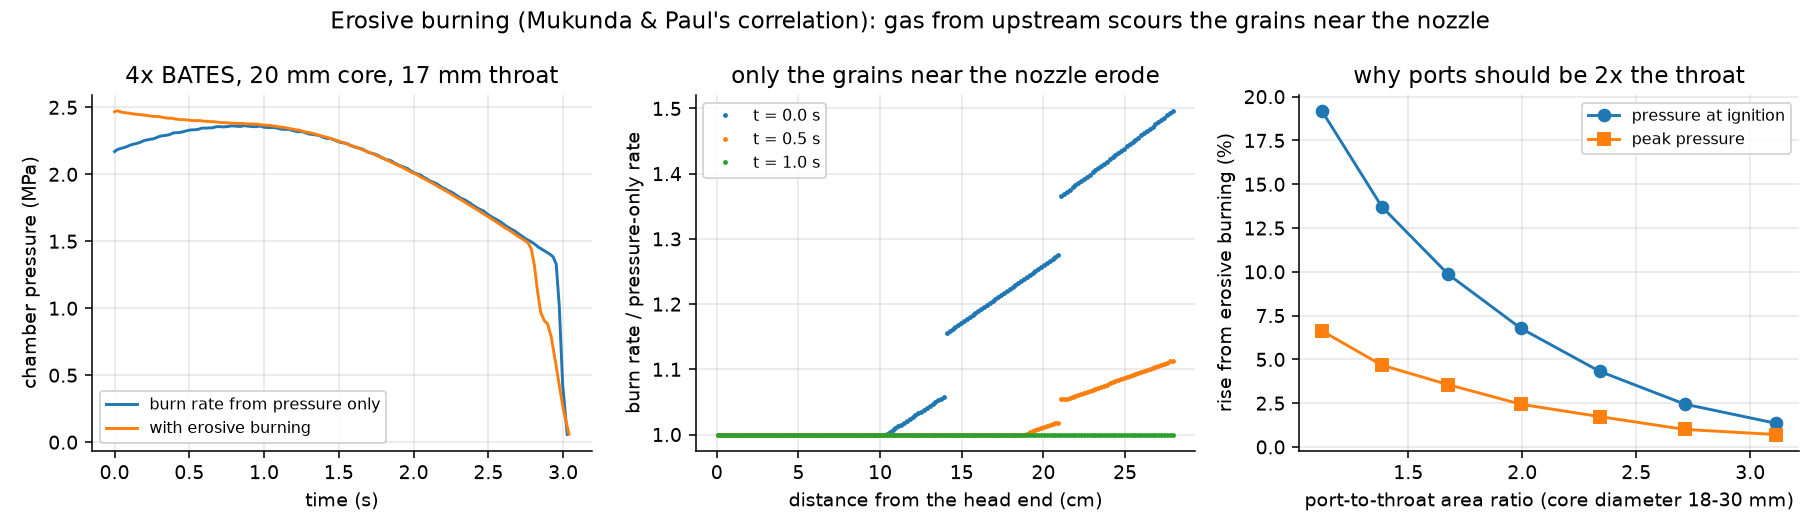
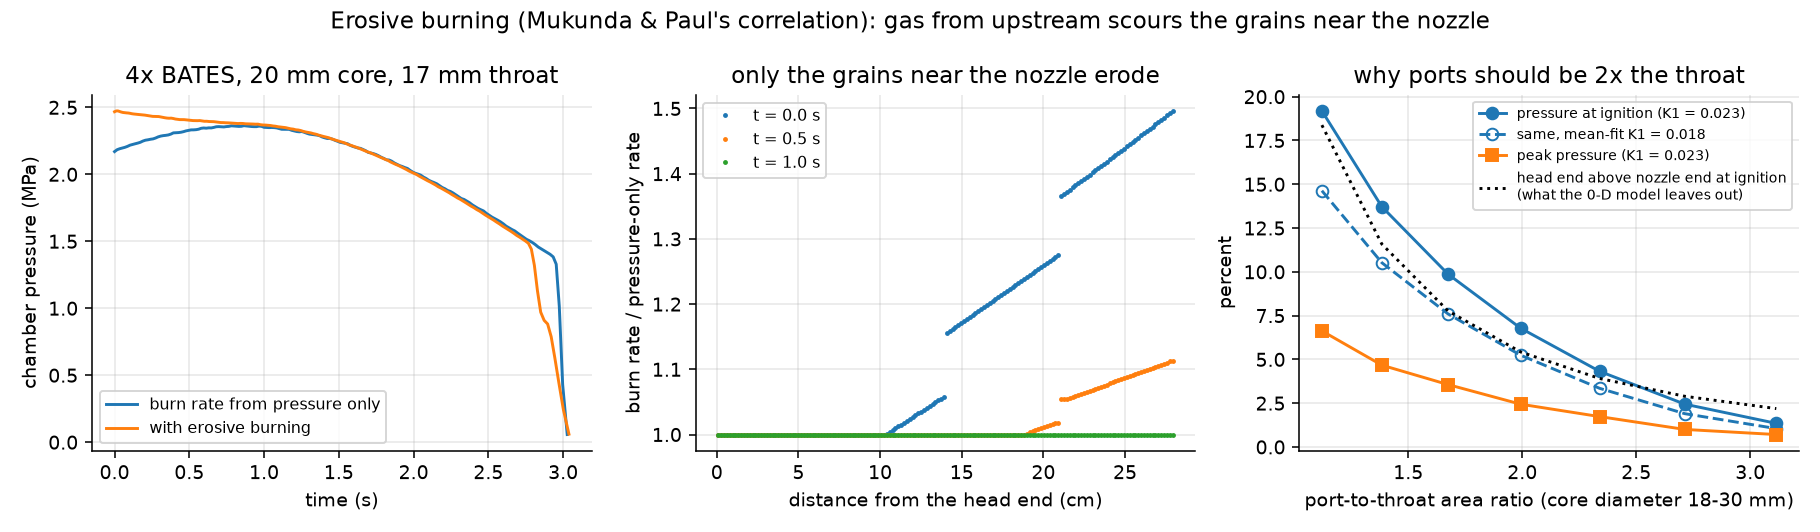
Report the port Mach number and the erosive-burning uncertainty
The 1.4 port-to-throat BATES case runs at about Mach 0.49 in the port, so the
uniform-pressure model is outside its range there: the head end sits about 12%
above the nozzle pressure. The result now reports the port Mach number and the
head-end pressure that implies. The README also stops calling 0.023 a fit to
450 points (the mean fit is 0.018; 0.023 is the authors' upper-side value) and
gives the start-pressure rise as a range over the coefficient and viscosity.

diff --git a/src/hml/solid.py b/src/hml/solid.py
@@ -14,14 +14,22 @@ adds erosive burning: gas flowing fast along the port scours the burning
 surface and makes it burn faster, most at the nozzle end where all the gas from
 upstream is flowing past. It uses Mukunda & Paul's correlation ("Universal
 behaviour in erosive burning of solid propellants", Combustion and Flame 109,
-1997, Eq. 12), which they fit to about 450 data points across composite and
-double-base propellants:
+1997, Eq. 12):
 
-    r / r0 = 1 + 0.023 (g^0.8 - g_th^0.8)   for g > g_th = 35, else 1
+    r / r0 = 1 + K1 (g^0.8 - g_th^0.8)   for g > g_th = 35, else 1
     g  = g0 (Re0 / 1000)^-0.125,   g0 = G / (rho_p r0),   Re0 = rho_p r0 d / mu
 
 where r0 = a Pc^n is the non-erosive rate, G the mass flux in the port, d the
-port's hydraulic diameter and mu the gas viscosity.
+port's hydraulic diameter and mu the gas viscosity. The mean line through their
+roughly 450 data points has K1 = 0.018 (their Sec. 3.8). They raised it to 0.023
+so a 1-D port-flow model matched Nagaoka et al.'s measured head-end pressure
+traces, said that value lies toward the upper bound of the data, and recommend
+it as Eq. 12 (Sec. 3.9). The default here is 0.023; pass 0.018 to see the spread.
+
+The 0-D model takes one pressure for the whole chamber. With a narrow port the
+gas reaches a real Mach number on its way to the nozzle and the static pressure
+falls along the port, which the result reports (``port_mach``, ``head_end_pc``)
+rather than models.
 """
 from __future__ import annotations
 
@@ -106,13 +114,43 @@ def simulate(segments: list[Segment], prop: SolidPropellant, throat_diameter: fl
 
 # ---------------------------------------------------------------- erosive burning
 
-def erosive_ratio(G, r0: float, prop: SolidPropellant, hydraulic_diameter):
-    """Erosive burn-rate ratio r / r0 from Mukunda & Paul (1997), Eq. 12."""
+MUKUNDA_PAUL_K1 = 0.023  # Eq. 12, raised to match motor pressure traces ("toward the upper bound")
+MUKUNDA_PAUL_K1_MEAN_FIT = 0.018  # mean line through all their data (Sec. 3.8)
+
+
+def erosive_ratio(G, r0: float, prop: SolidPropellant, hydraulic_diameter, coefficient: float = MUKUNDA_PAUL_K1):
+    """Erosive burn-rate ratio r / r0 from Mukunda & Paul (1997), Eq. 12, with K1 = ``coefficient``."""
     G, d = np.asarray(G, float), np.asarray(hydraulic_diameter, float)
     g0 = G / (prop.density * r0)
     re0 = prop.density * r0 * d / prop.viscosity
     g = g0 * (re0 / 1000.0) ** -0.125
-    return np.where(g > 35.0, 1.0 + 0.023 * (np.maximum(g, 35.0) ** 0.8 - 35.0**0.8), 1.0)
+    return np.where(g > 35.0, 1.0 + coefficient * (np.maximum(g, 35.0) ** 0.8 - 35.0**0.8), 1.0)
+
+
+def subsonic_mach_from_flux_ratio(flux_ratio, gamma: float):
+    """Mach number of a section that passes ``flux_ratio`` times the throat's mass flux at the same stagnation state.
+
+    That ratio is A*/A in isentropic flow, so this inverts the area-Mach relation on its subsonic branch.
+    """
+    from scipy.optimize import brentq
+
+    def area_ratio(M):
+        return ((2 / (gamma + 1)) * (1 + (gamma - 1) / 2 * M**2)) ** ((gamma + 1) / (2 * (gamma - 1))) / M
+
+    out = [brentq(lambda M, f=f: 1.0 / area_ratio(M) - f, 1e-9, 1.0) if 0 < f < 1 else (1.0 if f >= 1 else 0.0)
+           for f in np.atleast_1d(np.asarray(flux_ratio, float))]
+    return np.array(out) if np.ndim(flux_ratio) else out[0]
+
+
+def head_end_pressure_ratio(port_mach, gamma: float):
+    """Head-end pressure over the nozzle-end stagnation pressure, for a constant-area port.
+
+    Gas leaves the burning wall with no axial momentum, so with no friction p + rho u^2 = p (1 + gamma M^2)
+    is the same all along the port. The head end is at rest (M = 0), and at the aft end the static pressure
+    is the stagnation pressure times the isentropic ratio.
+    """
+    M = np.asarray(port_mach, float)
+    return (1 + gamma * M**2) * (1 + (gamma - 1) / 2 * M**2) ** (-gamma / (gamma - 1))
 
 
 @dataclass
@@ -124,11 +162,16 @@ class ErosiveResult(SolidResult):
     # Peak port mass flux over the throat's, Pc / c*. Above 1 the port itself would
     # choke, the pressure along the port is far from uniform, and the model doesn't apply.
     port_choke_ratio: np.ndarray = field(default_factory=lambda: np.zeros(0))
+    # What that flux means for the uniform-pressure assumption: the Mach number where the port flux peaks,
+    # and the head-end pressure that implies for a constant-area port (pc is the nozzle-end stagnation
+    # pressure). Above a flux ratio of about 0.5 the two ends differ by more than 5%.
+    port_mach: np.ndarray = field(default_factory=lambda: np.zeros(0))
+    head_end_pc: np.ndarray = field(default_factory=lambda: np.zeros(0))
 
 
 def simulate_erosive(segments: list[Segment], prop: SolidPropellant, throat_diameter: float, area_ratio: float,
                      p_ambient: float = 101325.0, dx: float = 1e-4, cells_per_segment: int = 40,
-                     erosive: bool = True) -> ErosiveResult:
+                     erosive: bool = True, erosive_coefficient: float = MUKUNDA_PAUL_K1) -> ErosiveResult:
     """Like ``simulate``, but each segment is split into axial cells that burn back at their own rate.
 
     At each step the chamber pressure is solved so the gas made along the whole
@@ -136,6 +179,7 @@ def simulate_erosive(segments: list[Segment], prop: SolidPropellant, throat_diam
     upstream of it) equals the nozzle flow. End faces burn at the non-erosive
     rate. With ``erosive=False`` every cell burns at r0, which reproduces
     ``simulate``. Each step burns at most ``dx`` of web in the fastest cell.
+    ``erosive_coefficient`` is Mukunda & Paul's K1.
     """
     At = np.pi * throat_diameter**2 / 4
     curves = [s.port.curves(300) for s in segments]
@@ -179,7 +223,8 @@ def simulate_erosive(segments: list[Segment], prop: SolidPropellant, throat_diam
             r = np.empty(cells_per_segment)
             for j in range(cells_per_segment):
                 G = m / Ap[j]
-                eta = float(erosive_ratio(G, r0, prop, 4 * Ap[j] / max(Pp[j], 1e-12))) if erosive else 1.0
+                eta = (float(erosive_ratio(G, r0, prop, 4 * Ap[j] / max(Pp[j], 1e-12), erosive_coefficient))
+                       if erosive else 1.0)
                 r[j] = r0 * eta
                 m += prop.density * r[j] * Pp[j] * active[j]
                 if active[j] > 0 and Pp[j] > 0:
@@ -216,6 +261,9 @@ def simulate_erosive(segments: list[Segment], prop: SolidPropellant, throat_diam
         t += dt
     mass = sum(s.propellant_volume() for s in segments) * prop.density
     z = np.concatenate([zc[i] + sum(s.length for s in segments[:i]) for i in range(len(segments))])
+    choke = np.array(out["choke"])
+    mach = subsonic_mach_from_flux_ratio(choke, prop.gamma)
     return ErosiveResult(np.array(out["t"]), np.array(out["pc"]), np.array(out["F"]), np.array(out["mdot"]),
                          np.array(out["Ab"]), np.array(out["x"]), mass, z, np.array(out["xz"]),
-                         np.array(out["G"]), np.array(out["eta"]), np.array(out["choke"]))
+                         np.array(out["G"]), np.array(out["eta"]), choke, mach,
+                         np.array(out["pc"]) * head_end_pressure_ratio(mach, prop.gamma))

diff --git a/examples/make_figures.py b/examples/make_figures.py
@@ -10,6 +10,7 @@ from __future__ import annotations
 
 import argparse
 import json
+from dataclasses import replace
 from pathlib import Path
 
 import matplotlib
@@ -114,20 +115,39 @@ def erosive(results):
     axes[1].set_ylabel("burn rate / pressure-only rate")
     axes[1].set_title("only the grains near the nozzle erode")
     axes[1].legend(fontsize=8)
+    # Core size sweep, with Mukunda & Paul's recommended K1 = 0.023 and with their mean fit, 0.018.
     sweep_ero = []
     for dc in (0.018, 0.020, 0.022, 0.024, 0.026, 0.028, 0.030):
         segs = [grain.Segment(grain.tubular(0.054, dc), 0.07) for _ in range(4)]
-        a, b = solid.simulate(segs, prop, 0.017, 6.0), solid.simulate_erosive(segs, prop, 0.017, 6.0)
-        sweep_ero.append(((dc / 0.017) ** 2, 100 * (b.pc[0] / a.pc[0] - 1), 100 * (b.max_pressure / a.max_pressure - 1)))
+        a = solid.simulate(segs, prop, 0.017, 6.0)
+        b = solid.simulate_erosive(segs, prop, 0.017, 6.0)
+        c = solid.simulate_erosive(segs, prop, 0.017, 6.0, erosive_coefficient=solid.MUKUNDA_PAUL_K1_MEAN_FIT)
+        sweep_ero.append(((dc / 0.017) ** 2, 100 * (b.pc[0] / a.pc[0] - 1), 100 * (b.max_pressure / a.max_pressure - 1),
+                          100 * (c.pc[0] / a.pc[0] - 1), 100 * (b.head_end_pc[0] / b.pc[0] - 1)))
     sweep_ero = np.array(sweep_ero)
-    axes[2].plot(sweep_ero[:, 0], sweep_ero[:, 1], "o-", label="pressure at ignition")
-    axes[2].plot(sweep_ero[:, 0], sweep_ero[:, 2], "s-", label="peak pressure")
+    axes[2].plot(sweep_ero[:, 0], sweep_ero[:, 1], "o-", color="C0", label="pressure at ignition (K1 = 0.023)")
+    axes[2].plot(sweep_ero[:, 0], sweep_ero[:, 3], "o--", color="C0", mfc="none", label="same, mean-fit K1 = 0.018")
+    axes[2].plot(sweep_ero[:, 0], sweep_ero[:, 2], "s-", color="C1", label="peak pressure (K1 = 0.023)")
+    axes[2].plot(sweep_ero[:, 0], sweep_ero[:, 4], ":", color="k",
+                 label="head end above nozzle end at ignition\n(what the 0-D model leaves out)")
     axes[2].set_xlabel("port-to-throat area ratio (core diameter 18-30 mm)")
-    axes[2].set_ylabel("rise from erosive burning (%)")
+    axes[2].set_ylabel("percent")
     axes[2].set_title("why ports should be 2x the throat")
-    axes[2].legend(fontsize=8)
+    axes[2].legend(fontsize=7)
     fig.suptitle("Erosive burning (Mukunda & Paul's correlation): gas from upstream scours the grains near the nozzle")
     save(fig, "erosive_burning.png")
+
+    # How much the README's BATES numbers depend on the correlation's coefficient and the guessed viscosity.
+    def rise(r):
+        return {"p0_rise_pct": round(100 * (float(r.pc[0]) / float(plain.pc[0]) - 1), 1),
+                "peak_rate_ratio": round(float(r.peak_ratio[0]), 2)}
+
+    sensitivity = {"K1_0.023_mu_8e-5 (default)": rise(ero),
+                   "K1_0.018 (mean fit)": rise(solid.simulate_erosive(
+                       bates, prop, 0.017, 6.0, erosive_coefficient=solid.MUKUNDA_PAUL_K1_MEAN_FIT))}
+    for f in (0.5, 2.0):
+        sensitivity[f"viscosity_x{f:g}"] = rise(solid.simulate_erosive(
+            bates, replace(prop, viscosity=prop.viscosity * f), 0.017, 6.0))
     boost_first = [cases["finocyl boost + tubular sustain"][1], cases["finocyl boost + tubular sustain"][0]]
     choked = solid.simulate_erosive(boost_first, prop, 0.015, 6.0)
     results["erosive"] = {
@@ -135,9 +155,16 @@ def erosive(results):
         "bates_pmax_MPa": [round(plain.max_pressure / 1e6, 2), round(ero.max_pressure / 1e6, 2)],
         "bates_peak_rate_ratio": round(float(ero.peak_ratio[0]), 2),
         "bates_port_flux_over_throat": round(float(ero.port_choke_ratio.max()), 2),
+        "bates_port_mach_at_ignition": round(float(ero.port_mach[0]), 3),
+        "bates_head_end_p0_MPa": round(float(ero.head_end_pc[0]) / 1e6, 2),
+        "bates_nozzle_end_static_over_pc": round(float((1 + (prop.gamma - 1) / 2 * ero.port_mach[0] ** 2)
+                                                       ** (-prop.gamma / (prop.gamma - 1))), 3),
+        "bates_sensitivity": sensitivity,
         "sweep_port_to_throat": [round(v, 2) for v in sweep_ero[:, 0]],
         "sweep_p0_rise_pct": [round(v, 1) for v in sweep_ero[:, 1]],
+        "sweep_p0_rise_pct_mean_fit_K1": [round(v, 1) for v in sweep_ero[:, 3]],
         "sweep_pmax_rise_pct": [round(v, 1) for v in sweep_ero[:, 2]],
+        "sweep_head_end_over_pc_pct": [round(v, 1) for v in sweep_ero[:, 4]],
         "boost_first_port_flux_over_throat": round(float(choked.port_choke_ratio[0]), 2),
         "boost_first_peak_port_flux": round(float(choked.peak_flux[0])),
         "throat_flux_at_ignition": round(float(choked.pc[0]) / prop.cstar),

diff --git a/tests/test_physics.py b/tests/test_physics.py
@@ -193,7 +193,7 @@ def test_solid_mass_balance():
     segs = [grain.Segment(grain.tubular(0.054, 0.02), 0.07) for _ in range(4)]
     r = solid.simulate(segs, solid.EXAMPLE_APCP, 0.017, 6.0)
     burned = np.trapezoid(r.mdot, r.t)
-    assert burned == pytest.approx(r.propellant_mass, rel=0.03)
+    assert burned == pytest.approx(r.propellant_mass, rel=5e-3)  # the actual error is 0.13%
 
 
 def test_erosive_ratio_matches_mukunda_paul_by_hand():
@@ -229,7 +229,31 @@ def test_erosive_burning_raises_the_start_pressure_and_conserves_mass():
     head, aft = web[:40], web[120:]
     assert np.ptp(head) == pytest.approx(0.0, abs=1e-12)
     assert np.all(np.diff(aft) > 0) and aft[-1] > 1.05 * aft[0] > 1.05 * head[0]
-    assert np.trapezoid(ero.mdot, ero.t) == pytest.approx(ero.propellant_mass, rel=0.03)
+    assert np.trapezoid(ero.mdot, ero.t) == pytest.approx(ero.propellant_mass, rel=5e-3)
+
+
+def test_port_mach_and_head_end_pressure_match_the_conservation_laws():
+    """The port diagnostics against a dimensional solve of a constant-area port fed from its wall.
+
+    Gas made at the wall enters with the chamber's stagnation enthalpy and no axial momentum, so between the
+    head end (at rest, pressure p_h) and a station carrying mass flux G:
+        momentum  p + G u = p_h,   energy  cp T + u^2 / 2 = cp T0,   state  p = (G / u) R T.
+    Solving those for u gives the station's Mach number and stagnation pressure, and the throat flux for the
+    same stagnation state comes straight from the sonic conditions. None of it uses the area-Mach relation.
+    """
+    from scipy.optimize import brentq
+    gamma, R, T0, p_h = 1.2, 300.0, 3000.0, 3.0e6
+    cp = gamma * R / (gamma - 1)
+    u_sonic = np.sqrt(gamma * R * 2 * T0 / (gamma + 1))  # this port chokes at G = 1652 kg/m^2/s
+    for G in (500.0, 1000.0, 1500.0):
+        u = brentq(lambda u, G=G: p_h - G * u - G * R * (T0 - u**2 / (2 * cp)) / u, 1.0, u_sonic)
+        T = T0 - u**2 / (2 * cp)
+        M = u / np.sqrt(gamma * R * T)
+        p0 = (p_h - G * u) * (T0 / T) ** (gamma / (gamma - 1))
+        T_star = 2 * T0 / (gamma + 1)
+        G_star = p0 * (T_star / T0) ** (gamma / (gamma - 1)) / (R * T_star) * np.sqrt(gamma * R * T_star)
+        assert solid.subsonic_mach_from_flux_ratio(G / G_star, gamma) == pytest.approx(M, rel=1e-6)
+        assert solid.head_end_pressure_ratio(M, gamma) == pytest.approx(p_h / p0, rel=1e-9)
 
 
 def test_erosive_model_flags_a_port_that_would_choke():

diff --git a/DERIVATIONS.md b/DERIVATIONS.md
@@ -106,7 +106,7 @@ $$\Rightarrow\quad P_c = \left(\frac{\rho_p\, a\, A_b\, c^*}{A_t}\right)^{\frac{
 
 The simulation steps in web distance (not time) and converts with $dt = dx / \dot r$, so fast and slow phases are resolved equally.
 
-**Check:** integrated $\dot m\,dt$ equals the propellant mass loaded, within 3% (`test_solid_mass_balance`).
+**Check:** integrated $\dot m\,dt$ equals the propellant mass loaded, within 0.5% (`test_solid_mass_balance`; the actual error is 0.13%). That is conservation, not an outside reference.
 
 ### Erosive burning (`solid.simulate_erosive`)
 
@@ -116,13 +116,23 @@ $$g_0 = \frac{G}{\rho_p r_0}, \qquad Re_0 = \frac{\rho_p r_0 d}{\mu}, \qquad g =
 
 where $r_0 = aP_c^n$ is the pressure-only rate, $G$ the mass flux in the port, $d$ the port's hydraulic diameter $4A/P$, and $\mu$ the gas viscosity. $g_0$ compares the flow along the surface with the flow leaving it. Their Eq. 12 is
 
-$$\frac{r}{r_0} = 1 + 0.023\left(g^{0.8} - g_{th}^{0.8}\right) \quad \text{for } g > g_{th} = 35, \qquad \text{else } 1$$
+$$\frac{r}{r_0} = 1 + K_1\left(g^{0.8} - g_{th}^{0.8}\right) \quad \text{for } g > g_{th} = 35, \qquad \text{else } 1$$
+
+**Which $K_1$.** The mean line through all their data (390 points, plus 60 standing in for the laws that two other groups published) has $K_1 = 0.018$, with 373 of the 450 points inside a ±15% band (their Sec. 3.8). To reproduce Nagaoka et al.'s measured head-end pressure traces with a 1-D, time-dependent port-flow model, they had to raise it to 0.023, which they say still sits within the scatter but toward its upper bound, and that is the value they recommend as Eq. 12 (Sec. 3.9). The code defaults to 0.023 (`solid.MUKUNDA_PAUL_K1`) and the figure script also runs 0.018, so the README gives a range rather than one number. The viscosity is an estimate too, so it is varied by a factor of 2 each way.
 
 **Solving it.** Each segment is split into axial cells, each with its own web, port area $A_j$ and perimeter $P_j$ from the burn-back curves. For a trial $P_c$, march from the closed head end. The flow arriving at cell $j$ is everything made upstream, so $G_j = \dot m_{j-1}/A_j$. That sets $r_j = r_0\,\eta(g_j)$, and the cell adds $\rho_p r_j P_j \Delta z$ to the flow. End faces add gas where they sit and burn at $r_0$, since the flow passes them rather than along them. A root solve finds the $P_c$ where the total equals $P_c A_t/c^*$. Each cell then burns back by $r_j\,\Delta t$, with $\Delta t$ set so the fastest cell moves 0.1 mm.
 
-**When the port chokes.** The most mass flux any section can pass is about what the throat passes, $P_c/c^*$, since it's the same gas from the same chamber. If the march asks for more than that somewhere in the port, the port itself chokes, the pressure along the port is far from uniform, and a 0-D chamber model doesn't apply. The result reports that ratio (`port_choke_ratio`).
+**How far the uniform pressure can be trusted.** The march uses one chamber pressure everywhere, but gas speeding up along a narrow port loses static pressure on the way. The ratio the result reports, $f = G_\text{port}/(P_c/c^*)$ (`port_choke_ratio`), is the port's peak mass flux over the throat's. For the same stagnation state that ratio is $A^*/A$ in isentropic flow, so inverting the area-Mach relation on its subsonic branch gives the port Mach number $M$ there (`port_mach`). Taking $P_c$ as the stagnation pressure where the gas enters the nozzle, the static pressure there is
 
-**Checks:** the correlation by hand. With erosion off, the cell model reproduces the closed form exactly for BATES (whose cells burn away from the ends) and star grains. With erosion on, mass still balances within 3%, the head-end grain of a BATES stack doesn't erode while the nozzle-end one burns faster toward the nozzle, and a port narrower than the throat gets flagged (`tests/test_physics.py`).
+$$p_\text{aft} = P_c\left(1 + \tfrac{\gamma-1}{2}M^2\right)^{-\gamma/(\gamma-1)}$$
+
+In a port of constant area, gas leaving the wall carries no axial momentum, so with no friction the momentum balance $d(pA + \dot m u) = 0$ keeps $p + \rho u^2 = p\,(1 + \gamma M^2)$ the same all along the port. The head end is at rest, so
+
+$$\frac{p_\text{head}}{P_c} = \frac{1 + \gamma M^2}{\left(1 + \tfrac{\gamma-1}{2}M^2\right)^{\gamma/(\gamma-1)}}$$
+
+(`head_end_pc`; a test checks both against a dimensional solve of the mass, momentum and energy balances that never uses the area-Mach relation). At ignition all the gas flows out of the last grain's core, so $f$ is about the throat-to-port area ratio. For $\gamma = 1.2$, a port twice the throat area gives $f = 0.5$, $M = 0.31$, and a head end 5% above $P_c$. At 1.4 times the throat (the README's BATES case, $f = 0.72$ at ignition), $M = 0.48$, the head end sits 11.5% above $P_c$ and the nozzle end's static pressure 13% below it. That spread is as large as the erosive effect itself, so the 0-D numbers there are a first estimate. A real answer needs the pressure solved along the port, the way Mukunda and Paul did it. If $f$ reaches 1 the port itself chokes and the model doesn't apply at all.
+
+**Checks:** the correlation by hand (which only checks the transcription). With erosion off, the cell model reproduces the closed form exactly for BATES (whose cells burn away from the ends) and star grains. With erosion on, mass still balances within 0.5% (the actual error is 0.2%), the head-end grain of a BATES stack doesn't erode while the nozzle-end one burns faster toward the nozzle, and a port narrower than the throat gets flagged (`tests/test_physics.py`).
 
 ---
 
@@ -286,7 +296,7 @@ The Bézier control point $Q$ is where the tangent lines at $N$ (slope $\tan\the
 
 ## What the models leave out (say this before someone else does)
 
-- **Ballistics:** ignition and tail-off transients, two-phase flow losses, nozzle erosion, and heat loss to the walls. Erosive burning is an empirical correlation with an estimated gas viscosity. End faces burn at the pressure-only rate, and the pressure is taken as uniform along the port, which holds unless the port nears choking (flagged).
+- **Ballistics:** ignition and tail-off transients, two-phase flow losses, nozzle erosion, and heat loss to the walls. Erosive burning is an empirical correlation with an estimated gas viscosity, and its coefficient was tuned with a 1-D port model, not a 0-D one. End faces burn at the pressure-only rate, and the pressure is taken as uniform along the port. The result reports the port Mach number and head-end pressure that implies, and above a port flux of about half the throat's the two ends differ by more than 5%.
 - **Hybrids:** `simulate_axial` resolves the flux along the port, but its total-flux coefficient is matched to the averaged law at ignition rather than fit to data. The nitrous tank is adiabatic and always in equilibrium. Real tanks lag behind equilibrium, and the walls give heat back to the cooling liquid. The burn also stops when the liquid runs out instead of burning the vapor left behind.
 - **Thermochemistry:** the hybrid tables are gas-only, so on the fuel-rich side (O/F 1.2 and below for GOX/paraffin) they miss the graphite that CEA says condenses (section 1). `PerformanceTable.lookup` also clamps O/F and pressure to the table's edges without saying so: the shaped-port hybrids start below O/F 1.0, so their first second or so is read at O/F 1.0. The nitrous table is built for liquid N₂O at 20 °C, while the tank cools to about 0 °C during the burn. Condensed products stay in equilibrium with the gas, and the droplets are assumed to keep up with it in speed and temperature, so aluminized $I_{sp}$ is an upper bound. Real motors lose a few percent to particle lag. The paraffin heat of formation is uncertain, but a test shows it moves c* by less than 1%.
 - **Detonation:** the one-gamma cycle analysis is an idealization. Real RDEs run 10–20% below CJ speed, and the sizing depends on an empirical cell size.

diff --git a/README.md b/README.md
@@ -73,9 +73,11 @@ Same 54 mm case, four grain designs, four very different thrust curves. The prop
 
 ### Erosive burning
 
-My first solid model let the burn rate depend only on chamber pressure. But in a long, narrow grain, all the gas made upstream rushes along the port, and that scours the burning surface and makes it burn faster, most of all near the nozzle. I added it with Mukunda and Paul's correlation (Combustion and Flame, 1997), which they fit to about 450 data points from many propellants. Beyond the usual burn-rate numbers it only needs the gas viscosity. Each grain is split into slices along its length. Every step solves for the chamber pressure where the gas from all the slices, each burning at its own rate, matches what the nozzle lets out. With erosion turned off it reproduces the pressure-only model exactly.
+My first solid model let the burn rate depend only on chamber pressure. But in a long, narrow grain, all the gas made upstream rushes along the port, and that scours the burning surface and makes it burn faster, most of all near the nozzle. I added it with Mukunda and Paul's correlation (Combustion and Flame, 1997). They collected about 450 erosive-burning measurements from many propellants, and the line through all of them has a coefficient of 0.018. To match measured motor pressure traces they raised it to 0.023, which they say sits toward the upper edge of the data, and that's the version they recommend and the one I use by default. Beyond the usual burn-rate numbers it only needs the gas viscosity, which I had to estimate. Each grain is split into slices along its length. Every step solves for the chamber pressure where the gas from all the slices, each burning at its own rate, matches what the nozzle lets out. With erosion turned off it reproduces the pressure-only model exactly.
 
-My 4-grain BATES example has a 20 mm core and a 17 mm throat, so the port is only 1.4 times the throat area. At ignition the last grain burns up to 50% faster than pressure alone predicts, and the starting pressure is 14% higher (2.47 MPa instead of 2.17). The erosion fades within a second as the ports open up, but by then the nozzle-end grains are ahead, so they burn out first and the tail-off starts earlier. Sweeping the core size shows where the usual rule of thumb, a port at least twice the throat area, comes from. At a ratio of 2 the spike at ignition is down to 7%, and at 3 it's about 1%.
+My 4-grain BATES example has a 20 mm core and a 17 mm throat, so the port is only 1.4 times the throat area. At ignition the last grain burns up to 50% faster than pressure alone predicts, and the starting pressure is 14% higher (2.47 MPa instead of 2.17). Those numbers lean on the inputs I'm least sure of. With the mean-fit coefficient, or with the viscosity halved or doubled, the rise at ignition ranges from 10.5 to 16.6% and the fastest burning from 38 to 57% above the pressure-only rate. The erosion fades within a second as the ports open up, but by then the nozzle-end grains are ahead, so they burn out first and the tail-off starts earlier. Sweeping the core size shows why the usual rule of thumb is a port at least twice the throat area ([Richard Nakka](https://www.nakka-rocketry.net/burnrate.html) gives that minimum for a grain about 6 diameters long; this one is 5). At a ratio of 2 the spike at ignition is down to 5 to 7%, and at 3 it's about 1%.
+
+There's a catch I missed at first. My model uses one pressure for the whole chamber, but at 1.4 times the throat area the gas is doing about Mach 0.49 by the time it leaves the port. In a straight port that puts the head end about 12% above the pressure feeding the nozzle (2.75 MPa instead of 2.47), which is as big as the erosion effect I'm trying to show. So for this grain the numbers are a first estimate. Getting them right means solving for the pressure along the port, which is how Mukunda and Paul tuned their coefficient in the first place. At twice the throat area the difference is down to about 5%.
 
 ![Erosive burning](docs/figures/erosive_burning.png)
 
